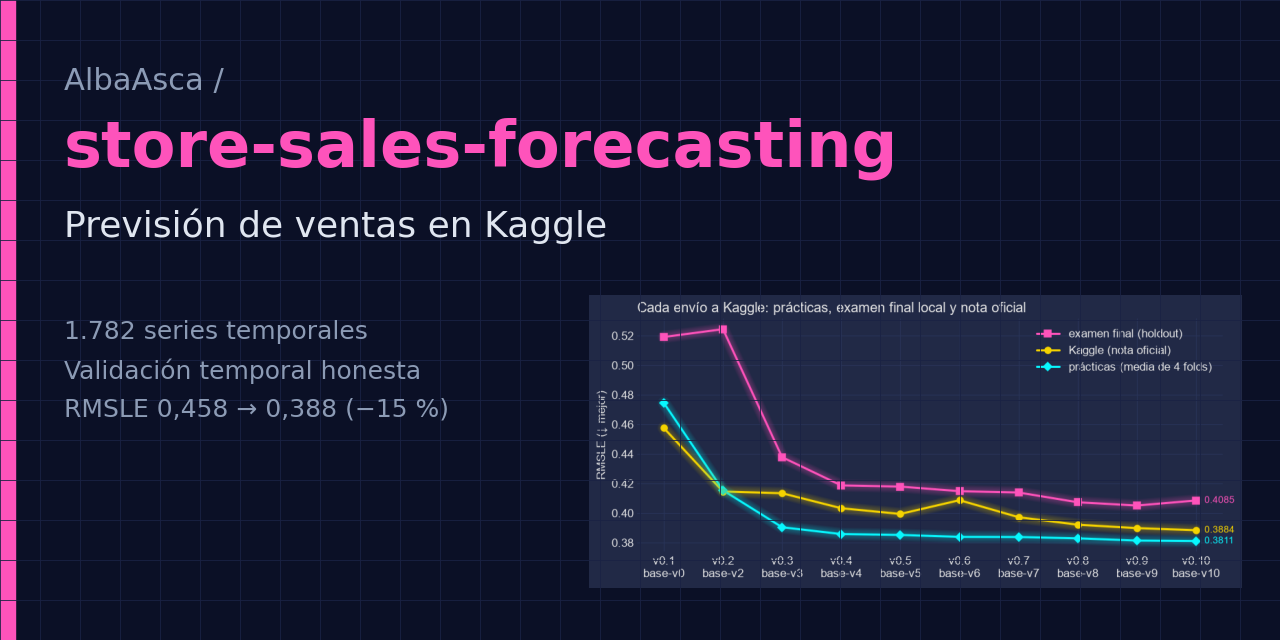
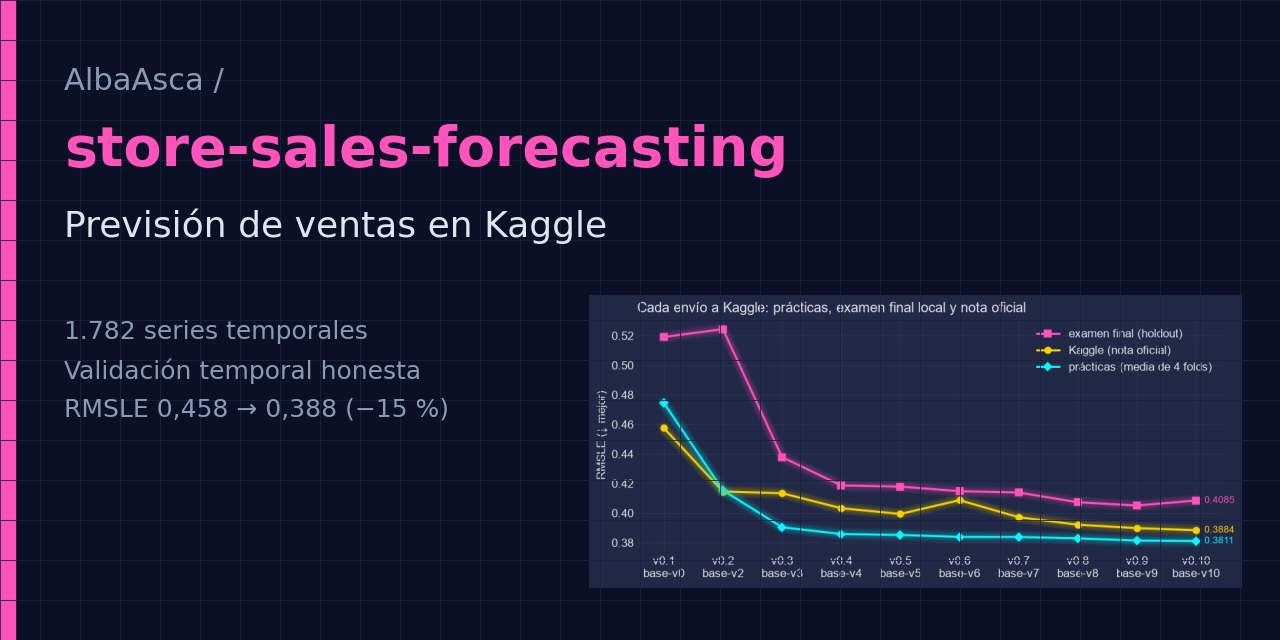
docs: feature WebFluxTaskManager on profile

Changed region(s): [[0.0312, 0.1875, 0.7188, 0.2812]]

diff --git a/make_social.py b/make_social.py
@@ -33,6 +33,12 @@ CARDS = [
         "Consultor · arquitecto\nDesarrollador · tester\nTiempo estimado frente a real",
         "#F5D300",
     ),
+    (
+        "WebFluxTaskManager",
+        "API reactiva en tiempo real",
+        "Java 21 · Spring Boot 4 · WebFlux\nMongoDB reactivo · HATEOAS\nSSE · Testcontainers",
+        "#6DB33F",
+    ),
 ]
 
 
@@ -44,7 +50,7 @@ def card(name: str, title: str, sub: str, accent: str, image: str) -> None:
         fig.add_artist(plt.Line2D([0, 1], [y / 640] * 2, color="#1A2244", lw=0.6))
     fig.add_artist(plt.Rectangle((0, 0), 0.012, 1, color=accent, transform=fig.transFigure))
     fig.text(0.05, 0.86, "AlbaAsca /", color=MUTED, fontsize=22)
-    fig.text(0.05, 0.74, name, color=accent, fontsize=46, fontweight="bold")
+    fig.text(0.05, 0.74, name, color=accent, fontsize=46 if len(name) < 20 else 40, fontweight="bold")
     fig.text(0.05, 0.63, title, color=FG, fontsize=26)
     fig.text(0.05, 0.5, sub, color=MUTED, fontsize=18, linespacing=1.7, va="top")
     ax = fig.add_axes([0.46, 0.05, 0.51, 0.52])

diff --git a/README.md b/README.md
@@ -22,6 +22,13 @@ Construyo pipelines de datos, servicios Spring Boot y equipos de **agentes de IA
 
 <a href="https://github.com/AlbaAsca/aws-data-pipeline"><img src="https://github.com/AlbaAsca/aws-data-pipeline/raw/main/docs/img/temperature.gif?v=2" alt="60 días de temperatura de seis ciudades, dibujándose" width="100%"></a>
 
+### ☕ [WebFluxTaskManager](https://github.com/AlbaAsca/WebFluxTaskManager) · backend Java reactivo
+API REST de tareas con **Java 21, Spring Boot 4 y WebFlux** sobre MongoDB reactivo: HATEOAS, errores RFC 9457,
+seguridad por roles y **cambios en tiempo real por Server-Sent Events**. Tests con `@WebFluxTest`, `StepVerifier`
+y **Testcontainers** contra un MongoDB real en el CI.
+
+<a href="https://github.com/AlbaAsca/WebFluxTaskManager"><img src="https://github.com/AlbaAsca/WebFluxTaskManager/raw/main/docs/img/hero.svg" alt="WebFlux Task Manager: lo que cambia un usuario lo ven todos al instante" width="100%"></a>
+
 ### 📈 [store-sales-forecasting](https://github.com/AlbaAsca/store-sales-forecasting) · series temporales en Kaggle
 Previsión de 1.782 series con validación temporal honesta: **0,45751 → 0,38839 RMSLE (−15 %)** en 10 versiones.
 45 ideas probadas como experimentos con el criterio fijado antes de medir, también las 30 que no entraron.
@@ -68,4 +75,4 @@ las estimaciones.
   <a href="mailto:albaasca@gmail.com"><img src="https://img.shields.io/badge/Email-albaasca%40gmail.com-EA4335?style=for-the-badge&logo=gmail&logoColor=white" alt="Email"></a>
 </p>
 
-<sub>🇬🇧 Data Engineer & Java backend developer (5+ yrs), Spain, remote. AWS Certified AI Practitioner. Data pipelines, Spring Boot services and AI agent teams that ship with TDD and CI. Featured: an end-to-end AWS data pipeline (Lambda, S3, dbt + DuckDB, Terraform, GitHub OIDC; built on LocalStack, < $0.01 on real AWS) and time-series forecasting on Kaggle Store Sales (RMSLE 0.457 → 0.388) with honest backtesting.</sub>
+<sub>🇬🇧 Data Engineer & Java backend developer (5+ yrs), Spain, remote. AWS Certified AI Practitioner. Data pipelines, Spring Boot services and AI agent teams that ship with TDD and CI. Featured: a reactive Java 21 / Spring Boot 4 WebFlux API with real-time SSE, an end-to-end AWS data pipeline (Lambda, S3, dbt + DuckDB, Terraform, GitHub OIDC; built on LocalStack, < $0.01 on real AWS) and time-series forecasting on Kaggle Store Sales (RMSLE 0.457 → 0.388) with honest backtesting.</sub>
